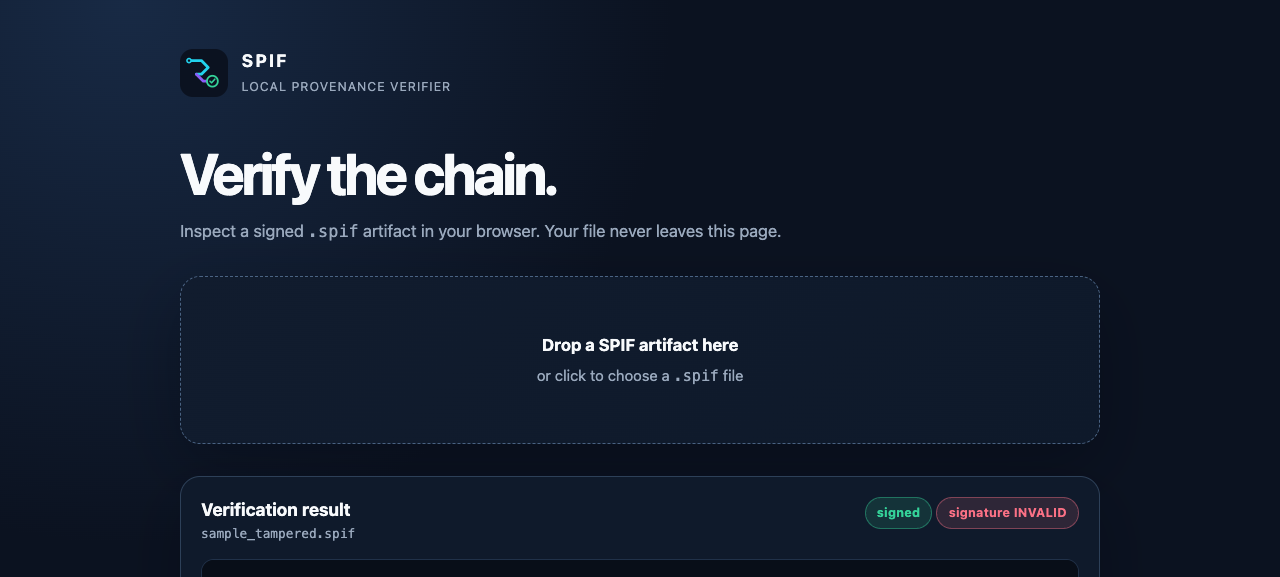
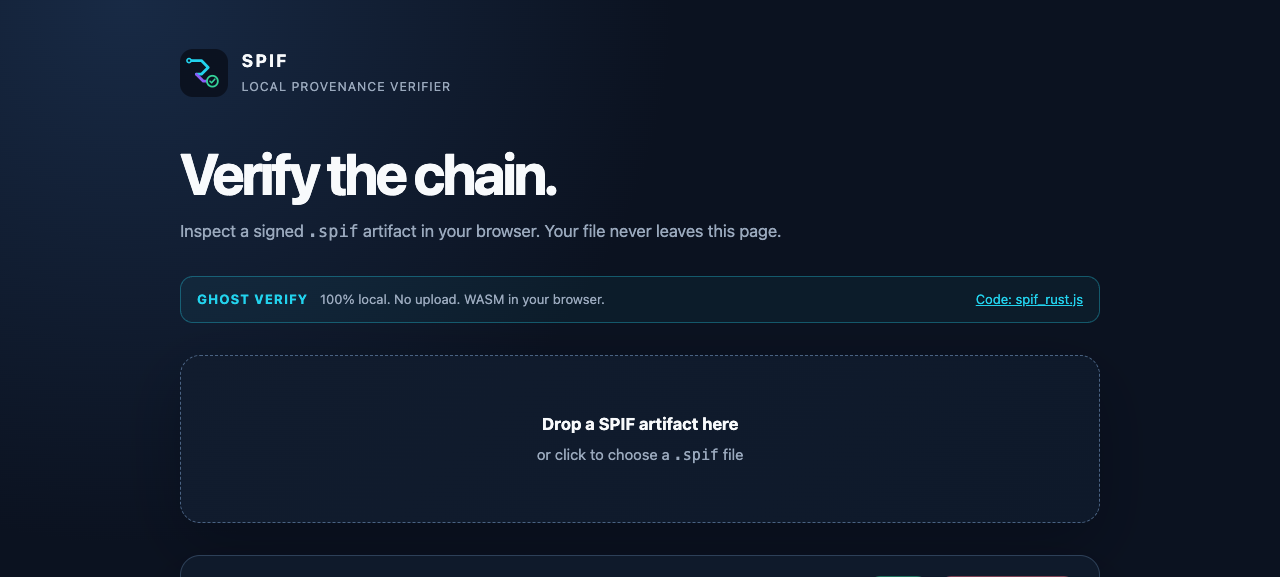
security: make Ghost Verifier local-only

diff --git a/verify/index.html b/verify/index.html
@@ -33,13 +33,17 @@
   input[type=file] { display: none; }
   .foot { margin-top: 2rem; color: var(--muted); font-size: 0.82rem; }
   .foot a { color: var(--cyan); }
-  @media (max-width: 620px) { body { padding-top: 1.5rem; } .brand { margin-bottom: 2.5rem; } .result-head { display: block; } #filename { margin-top: 0.4rem; } }
+  .ghost-banner { display: flex; align-items: center; gap: 0.75rem; padding: 0.8rem 1rem; border: 1px solid #22d3ee55; border-radius: 0.8rem; background: #22d3ee0d; color: var(--muted); font-size: 0.82rem; }
+  .ghost-banner strong { color: var(--cyan); letter-spacing: 0.08em; text-transform: uppercase; }
+  .ghost-banner a { margin-left: auto; color: var(--cyan); white-space: nowrap; }
+  @media (max-width: 620px) { body { padding-top: 1.5rem; } .brand { margin-bottom: 2.5rem; } .result-head { display: block; } #filename { margin-top: 0.4rem; } .ghost-banner { align-items: flex-start; flex-wrap: wrap; } .ghost-banner a { margin-left: 0; width: 100%; } }
 </style>
 </head>
 <body>
 <main>
 <div class="brand"><img src="./spif-mark.svg" alt="SPIF mark"><div><strong>SPIF</strong><span>Local provenance verifier</span></div></div>
 <section class="hero"><h1>Verify the chain.</h1><p class="sub">Inspect a signed <code>.spif</code> artifact in your browser. Your file never leaves this page.</p></section>
+<aside class="ghost-banner" aria-label="Ghost Verify local-only guarantee"><strong>Ghost Verify</strong><span>100% local. No upload. WASM in your browser.</span><a href="./pkg/spif_rust.js" target="_blank" rel="noreferrer">Code: spif_rust.js</a></aside>
 <div id="drop"><strong>Drop a SPIF artifact here</strong><span>or click to choose a <code>.spif</code> file</span><input type="file" id="file" accept=".spif"></div>
 <div id="err"></div>
 <div id="result"><div class="result-head"><div><h2>Verification result</h2><span id="filename"></span></div><div><span id="signed-badge" class="badge"></span> <span id="verified-badge" class="badge"></span></div></div><pre id="json"></pre></div>
@@ -65,7 +69,12 @@ async function handleFile(file) {
   errBox.style.display = "none";
   result.style.display = "none";
   try {
-    const bytes = new Uint8Array(await file.arrayBuffer());
+    const bytes = await new Promise((resolve, reject) => {
+      const reader = new FileReader();
+      reader.onload = () => resolve(new Uint8Array(reader.result));
+      reader.onerror = () => reject(reader.error || new Error("Could not read the local file"));
+      reader.readAsArrayBuffer(file);
+    });
     const doc = JSON.parse(verify(bytes));
     document.getElementById("filename").textContent = file.name;
     signedBadge.textContent = doc._signed ? "signed" : "unsigned";

diff --git a/README.md b/README.md
@@ -8,7 +8,7 @@ SPIF is an open binary format for carrying signed, tamper-evident provenance acr
 tools, agents, and organizational boundaries.
 
 <p>
-  <a href="https://intelogroup.github.io/spif/">Try the browser verifier</a> ·
+  <a href="https://intelogroup.github.io/spif/">Open Ghost Verifier</a> ·
   <a href="spif/README.md">Install the Python package</a> ·
   <a href="docs/SPEC.md">Read the specification</a>
 </p>
@@ -36,7 +36,7 @@ separated from the response, it becomes difficult to answer:
 > What produced this output? Was it changed? Can I prove it?
 
 SPIF packages the answer into a portable `.spif` artifact that can be checked locally without
-uploading the file anywhere.
+network verification or a server-side upload.
 
 ## Trace · Seal · Verify
 
@@ -79,11 +79,12 @@ cargo build --release
 cargo test
 ```
 
-### Verify in the browser
+### Verify with Ghost Verifier
 
-Open the [SPIF Web Verifier](https://intelogroup.github.io/spif/), drop in a `.spif` file, and
-inspect its signature status and decoded JSON locally in your browser. The verifier is the
-project's GUI inspection tool; there is no standalone desktop viewer or upload API.
+Open [Ghost Verifier](https://intelogroup.github.io/spif/), choose a `.spif` file, and inspect
+its signature status and decoded JSON locally in your browser. The flow is
+`FileReader.readAsArrayBuffer()` → WASM verification → result. There is no verification API and
+the file is never uploaded.
 
 ### The proof is visible
 
@@ -120,7 +121,7 @@ magic → version → header → provenance → payload → signature → checks
 
 | You want to... | Start here |
 | --- | --- |
-| Verify a `.spif` file | [Browser verifier](https://intelogroup.github.io/spif/) |
+| Verify a `.spif` file | [Ghost Verifier](https://intelogroup.github.io/spif/) — local-only WASM, no upload |
 | Add provenance to a Python app | [Python implementation](spif/README.md) |
 | Build an interoperable reader or writer | [Wire specification](docs/SPEC.md) |
 | Review the threat model | [Cryptographic audit](docs/CRYPTO_AUDIT.md) |

diff --git a/spif-rust/README.md b/spif-rust/README.md
@@ -43,6 +43,6 @@ they are not uploaded to a server.
 
 ## Web verifier
 
-`.spif` files can be verified in-browser (no upload, wasm-only) at
-https://intelogroup.github.io/spif/ — source in [`../verify`](../verify),
+`.spif` files can be verified in-browser with [Ghost Verifier](https://intelogroup.github.io/spif/)
+(local-only, no upload, WASM-only) — source in [`../verify`](../verify),
 built from this crate's `wasm` module via `wasm-pack build --target web`.
